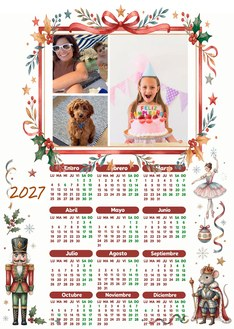
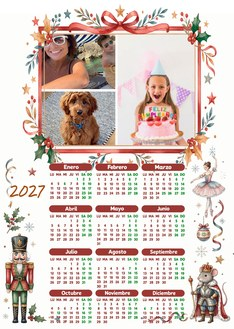
Ratón, Nido y Conejo: meses y año por encima del marco; Colores con 2027 sobre los meses; ejemplos con fotos
Claude-Session: https://claude.ai/code/session_014LaVcvbzxQCe9KhagWJ2yQ

diff --git a/pedir.html b/pedir.html
@@ -184,10 +184,10 @@ const PRODUCTOS = {
     desc:"El mismo póster collage en 4 diseños: ratón, nido, conejo y colores. Cartulina 300 g, 32 × 45 cm.",
     intro:"Elige el diseño y el año. Los 12 meses van bajo tu collage, en una cartulina de 300 g de 32 × 45 cm.",
     corto:"Póster collage", max:6,
-    variantes:[{id:"raton",nombre:"Ratón",thumb:"disenos/raton/miniatura.jpg?v=5",bg:"#E9EDF4",ac:"#5B6B8C",ln:"#9AA7C0"},
-               {id:"nido",nombre:"Nido",thumb:"disenos/nido/miniatura.jpg?v=5",bg:"#F3EBDD",ac:"#8A6A3B",ln:"#CDBB9A"},
-               {id:"conejo",nombre:"Conejo",thumb:"disenos/conejo/miniatura.jpg?v=5",bg:"#FBEAF0",ac:"#C2577F",ln:"#E3B4C6"},
-               {id:"colores",nombre:"Colores",thumb:"disenos/colores/miniatura.jpg?v=5",bg:"#EAF3FB",ac:"#4197E0",ln:"#A9CDEF"}]},
+    variantes:[{id:"raton",nombre:"Ratón",thumb:"disenos/raton/miniatura.jpg?v=7",bg:"#E9EDF4",ac:"#5B6B8C",ln:"#9AA7C0"},
+               {id:"nido",nombre:"Nido",thumb:"disenos/nido/miniatura.jpg?v=7",bg:"#F3EBDD",ac:"#8A6A3B",ln:"#CDBB9A"},
+               {id:"conejo",nombre:"Conejo",thumb:"disenos/conejo/miniatura.jpg?v=7",bg:"#FBEAF0",ac:"#C2577F",ln:"#E3B4C6"},
+               {id:"colores",nombre:"Colores",thumb:"disenos/colores/miniatura.jpg?v=7",bg:"#EAF3FB",ac:"#4197E0",ln:"#A9CDEF"}]},
   "12hojas":{id:"12hojas",nombre:"Calendario de 12 hojas",precio:"12,50 €",
     desc:"Portada y una hoja por mes, con hasta 6 fotos en cada una. Cartulina 300 g, 32 × 45 cm, a dos caras, anillado y con colgador.",
     corto:"12 hojas", max:6,
@@ -263,10 +263,10 @@ const ZONA_BASE = C.ZONA_FOTOS || {w:29.44, h:17.1};   // cm (se usa en los dise
 // Diseños con plantilla real. zona = rectángulo de fotos en cm sobre la hoja de 32 x 45. anios = años para los que hay plantilla.
 const DISENOS = {
   quelucha:{producto:"quelucha", anios:[2027], base:"disenos/quelucha/base.jpg", marco:null, zona:{x:1.575,y:7.467,w:22.97,h:17.22}},
-  conejo:{producto:"premium", anios:[2027], base:"disenos/conejo/base.jpg", marco:"disenos/conejo/marco.png", zona:{x:6.565,y:5.181,w:18.883,h:14.235}},
-  raton:{producto:"premium", anios:[2027], base:"disenos/raton/base.jpg", marco:"disenos/raton/marco.png", zona:{x:5.587,y:4.203,w:21.537,h:16.317}},
-  nido:{producto:"premium", anios:[2027], base:"disenos/nido/base.jpg", marco:"disenos/nido/marco.png", zona:{x:6.571,y:5.175,w:18.877,h:14.248}},
-  colores:{producto:"premium", anios:[2027], base:"disenos/colores/base.jpg", marco:null, zona:{x:1.448,y:1.448,w:29.105,h:15.788}}
+  conejo:{producto:"premium", anios:[2027], base:"disenos/conejo/base2.jpg", marco:"disenos/conejo/marco2.png", zona:{x:6.565,y:5.181,w:18.883,h:14.235}},
+  raton:{producto:"premium", anios:[2027], base:"disenos/raton/base.jpg", marco:"disenos/raton/marco2.png", zona:{x:5.587,y:4.203,w:21.537,h:16.317}},
+  nido:{producto:"premium", anios:[2027], base:"disenos/nido/base.jpg", marco:"disenos/nido/marco2.png", zona:{x:6.571,y:5.175,w:18.877,h:14.248}},
+  colores:{producto:"premium", anios:[2027], base:"disenos/colores/base2.jpg", marco:null, zona:{x:1.448,y:1.448,w:29.105,h:15.788}}
 };
 function disenoAct(){ const v=variante(), k=v?v.id:(prod()?prod().id:null); return (prod() && k && DISENOS[k] && DISENOS[k].producto===prod().id) ? DISENOS[k] : null; }
 let ZONA_FORZADA=null; // la usa el calendario de 12 hojas (cada hoja tiene su zona)
@@ -447,7 +447,7 @@ function miniPaleta(v,w){
 }
 
 // ---------- Ver los diseños en grande (lupa) ----------
-function imgGrande(id){ return {src:"disenos/"+id+"/grande.jpg?v=5", previa:"disenos/"+id+"/miniatura.jpg?v=5"}; }
+function imgGrande(id){ return {src:"disenos/"+id+"/grande.jpg?v=7", previa:"disenos/"+id+"/miniatura.jpg?v=7"}; }
 function hoja12Grande(v){
   const anio=S.anio;
   return {clave:"h12_"+v.id+"_"+anio, crear:async()=>{
@@ -481,8 +481,8 @@ function vProducto(){
   const mini12 = '<div class="thumb"><div style="position:relative;width:104px;height:112px" role="img" aria-label="Calendario de 12 hojas en varios colores">'+h12(0)+h12(1)+h12(2)+'</div></div>';
   const card=(pr,mini,extra)=>'<button type="button" class="card" data-prod="'+pr.id+'">'+mini+'<div class="info"><div class="t">'+pr.nombre+'</div><div class="d">'+pr.desc+'</div><div class="row"><span style="font-size:16px;font-weight:700;color:#0B7C82">'+pr.precio+'</span>'+(extra||"")+'</div></div>'+I.chev+'</button>';
   return cab()+'<div class="head"><h1>¿Qué quieres pedir?</h1><p class="sub">Verás cómo queda antes de enviar nada.</p></div>'+
-    '<div class="prods">'+card(q,'<div class="thumb"><img src="disenos/quelucha/miniatura.jpg?v=5" alt="Diseño del calendario Que Lucha!" width="78" height="110" style="width:78px;height:110px;border-radius:6px;box-shadow:0 1px 4px rgba(0,0,0,.25)"></div>','<span class="badge">'+q.badge+'</span>')+
-    card(p,'<div class="thumb"><div style="position:relative;width:104px;height:112px"><img src="disenos/raton/miniatura.jpg?v=5" alt="" style="position:absolute;left:0;top:14px;width:58px;height:82px;border-radius:4px;transform:rotate(-9deg);box-shadow:0 1px 4px rgba(0,0,0,.3)"><img src="disenos/conejo/miniatura.jpg?v=5" alt="" style="position:absolute;left:44px;top:14px;width:58px;height:82px;border-radius:4px;transform:rotate(9deg);box-shadow:0 1px 4px rgba(0,0,0,.3)"><img src="disenos/nido/miniatura.jpg?v=5" alt="Diseños del póster premium" style="position:absolute;left:23px;top:4px;width:58px;height:82px;border-radius:4px;box-shadow:0 2px 6px rgba(0,0,0,.35)"></div></div>')+card(d,mini12)+'</div>'+
+    '<div class="prods">'+card(q,'<div class="thumb"><img src="disenos/quelucha/miniatura.jpg?v=7" alt="Diseño del calendario Que Lucha!" width="78" height="110" style="width:78px;height:110px;border-radius:6px;box-shadow:0 1px 4px rgba(0,0,0,.25)"></div>','<span class="badge">'+q.badge+'</span>')+
+    card(p,'<div class="thumb"><div style="position:relative;width:104px;height:112px"><img src="disenos/raton/miniatura.jpg?v=7" alt="" style="position:absolute;left:0;top:14px;width:58px;height:82px;border-radius:4px;transform:rotate(-9deg);box-shadow:0 1px 4px rgba(0,0,0,.3)"><img src="disenos/conejo/miniatura.jpg?v=7" alt="" style="position:absolute;left:44px;top:14px;width:58px;height:82px;border-radius:4px;transform:rotate(9deg);box-shadow:0 1px 4px rgba(0,0,0,.3)"><img src="disenos/nido/miniatura.jpg?v=7" alt="Diseños del póster premium" style="position:absolute;left:23px;top:4px;width:58px;height:82px;border-radius:4px;box-shadow:0 2px 6px rgba(0,0,0,.35)"></div></div>')+card(d,mini12)+'</div>'+
     '<p class="small center" style="margin-top:auto">Podrás cambiar de producto en cualquier momento antes de confirmar.</p>';
 }
 // Miniaturas del calendario de 12 hojas (izquierda, derecha y la de delante)
@@ -529,7 +529,7 @@ function vConfig(){
   } else {
     const t=p.tema;
     const dz=DISENOS[p.id];
-    if(dz) h+='<div class="center" style="padding:6px 0"><div style="position:relative;width:140px;margin:0 auto"><img src="disenos/'+p.id+'/miniatura.jpg?v=5" alt="Diseño '+esc(p.nombre)+'" width="140" height="197" style="width:140px;height:197px;display:block;border-radius:4px;border:1px solid #B8C0CC;background:#fff">'+QLVisor.lupa('data-ver="'+p.id+'"',p.nombre)+'</div><div class="small" style="margin-top:8px">Un solo diseño. Las fotos del ejemplo son de muestra: irán las tuyas. Toca la lupa para verlo en grande.</div></div>';
+    if(dz) h+='<div class="center" style="padding:6px 0"><div style="position:relative;width:140px;margin:0 auto"><img src="disenos/'+p.id+'/miniatura.jpg?v=7" alt="Diseño '+esc(p.nombre)+'" width="140" height="197" style="width:140px;height:197px;display:block;border-radius:4px;border:1px solid #B8C0CC;background:#fff">'+QLVisor.lupa('data-ver="'+p.id+'"',p.nombre)+'</div><div class="small" style="margin-top:8px">Un solo diseño. Las fotos del ejemplo son de muestra: irán las tuyas. Toca la lupa para verlo en grande.</div></div>';
     else h+='<div class="center" style="padding:6px 0"><div class="mini" style="width:140px;height:197px;margin:0 auto;background:'+t.bg+'"><div class="ph" style="height:58px"></div><div class="ln" style="background:repeating-linear-gradient(to bottom,'+t.ln+' 0,'+t.ln+' 1px,transparent 1px,transparent 8px),repeating-linear-gradient(to right,'+t.ln+' 0,'+t.ln+' 1px,transparent 1px,transparent 13px)"></div></div><div class="small" style="margin-top:8px">Un solo diseño. Miniatura de ejemplo.</div></div>';
   }
   h+=selAnio();

diff --git a/admin.html b/admin.html
@@ -133,7 +133,7 @@ const SIT={rev:["Por revisar fotos","#FFF1CC","#7A4B00"],listo:["Listo para impr
 const ORDEN=["rev","listo","imp","ent"];
 const SIGUIENTE={rev:"Marcar fotos como revisadas",listo:"Marcar como impreso",imp:"Marcar como entregado"};
 // Plantillas a resolución de impresión (200 ppp) para el archivo final
-const PLANTILLAS={conejo:{base:"disenos/conejo/base_full.jpg",marco:"disenos/conejo/marco_full.png"},raton:{base:"disenos/raton/base_full.jpg",marco:"disenos/raton/marco_full.png"},quelucha:{base:"disenos/quelucha/base_full.jpg",marco:null},nido:{base:"disenos/nido/base_full.jpg",marco:"disenos/nido/marco_full.png"},colores:{base:"disenos/colores/base_full.jpg",marco:null}};
+const PLANTILLAS={conejo:{base:"disenos/conejo/base2_full.jpg",marco:"disenos/conejo/marco2_full.png"},raton:{base:"disenos/raton/base_full.jpg",marco:"disenos/raton/marco2_full.png"},quelucha:{base:"disenos/quelucha/base_full.jpg",marco:null},nido:{base:"disenos/nido/base_full.jpg",marco:"disenos/nido/marco2_full.png"},colores:{base:"disenos/colores/base2_full.jpg",marco:null}};
 const I={logo:'<svg width="20" height="20" viewBox="0 0 24 24" fill="none" stroke="#fff" stroke-width="1.8" stroke-linecap="round" stroke-linejoin="round"><rect x="3" y="3" width="8" height="10" rx="2"/><rect x="13" y="3" width="8" height="6" rx="2"/><rect x="13" y="11" width="8" height="10" rx="2"/><rect x="3" y="15" width="8" height="6" rx="2"/></svg>',
  back:'<svg width="16" height="16" viewBox="0 0 24 24" fill="none" stroke="currentColor" stroke-width="2.2" stroke-linecap="round" stroke-linejoin="round"><path d="M19 12H5M11 6l-6 6 6 6"/></svg>',
  print:'<svg width="18" height="18" viewBox="0 0 24 24" fill="none" stroke="currentColor" stroke-width="2" stroke-linecap="round" stroke-linejoin="round" style="vertical-align:-3px;margin-right:6px"><path d="M6 9V3h12v6M6 18H4a2 2 0 0 1-2-2v-5a2 2 0 0 1 2-2h16a2 2 0 0 1 2 2v5a2 2 0 0 1-2 2h-2M6 14h12v7H6z"/></svg>'};
@@ -178,9 +178,9 @@ async function cargar(){
 // No están en la web pública. Solo el panel (con sesión) puede leerlos.
 // Para añadir uno nuevo: subirlo a la web con la misma ruta y añadirlo a esta lista; al abrir el panel se pasa
 // solo al almacén privado. Después se borra de la web.
-const ARCH_IMPRENTA=["disenos/quelucha/base_full.jpg","disenos/colores/base_full.jpg",
-  "disenos/conejo/base_full.jpg","disenos/conejo/marco_full.png","disenos/raton/base_full.jpg","disenos/raton/marco_full.png",
-  "disenos/nido/base_full.jpg","disenos/nido/marco_full.png",
+const ARCH_IMPRENTA=["disenos/quelucha/base_full.jpg","disenos/colores/base2_full.jpg",
+  "disenos/conejo/base2_full.jpg","disenos/conejo/marco2_full.png","disenos/raton/base_full.jpg","disenos/raton/marco2_full.png",
+  "disenos/nido/base_full.jpg","disenos/nido/marco2_full.png",
   "disenos/cojin_jubilacion/base_full.png","disenos/cojin_jubilacion/jubilada_morena_full.png","disenos/cojin_jubilacion/jubilada_rubia_full.png"];
 const _plant={};
 function urlPlantilla(ruta){

diff --git a/index.html b/index.html
@@ -174,7 +174,7 @@ footer small{display:block;margin-top:14px;opacity:.92}
       <div class="tit"><h2 class="display">Nuestros productos</h2><p>Detalles que emocionan, recuerdos que perduran.</p></div>
       <div class="rejilla">
         <article class="prod">
-          <div class="foto alto rota"><img class="on" src="img/ejemplo-quelucha.jpg" alt="Ejemplo de calendario de pared con fotos del equipo" loading="lazy"><img src="disenos/raton/miniatura.jpg?v=5" alt="Diseño de calendario Ratón" loading="lazy"><img src="disenos/nido/miniatura.jpg?v=5" alt="Diseño de calendario Nido" loading="lazy"><img src="disenos/conejo/miniatura.jpg?v=5" alt="Diseño de calendario Conejo" loading="lazy"><img src="disenos/colores/miniatura.jpg?v=5" alt="Diseño de calendario Colores" loading="lazy"><span class="etq ok">Disponible</span></div>
+          <div class="foto alto rota"><img class="on" src="img/ejemplo-quelucha.jpg" alt="Ejemplo de calendario de pared con fotos del equipo" loading="lazy"><img src="disenos/raton/miniatura.jpg?v=7" alt="Diseño de calendario Ratón" loading="lazy"><img src="disenos/nido/miniatura.jpg?v=7" alt="Diseño de calendario Nido" loading="lazy"><img src="disenos/conejo/miniatura.jpg?v=7" alt="Diseño de calendario Conejo" loading="lazy"><img src="disenos/colores/miniatura.jpg?v=7" alt="Diseño de calendario Colores" loading="lazy"><span class="etq ok">Disponible</span></div>
           <div class="cuerpo">
             <h3>Calendarios de pared</h3>
             <p>Cada mes, una razón para sonreír. Con tus propias fotos.</p>
